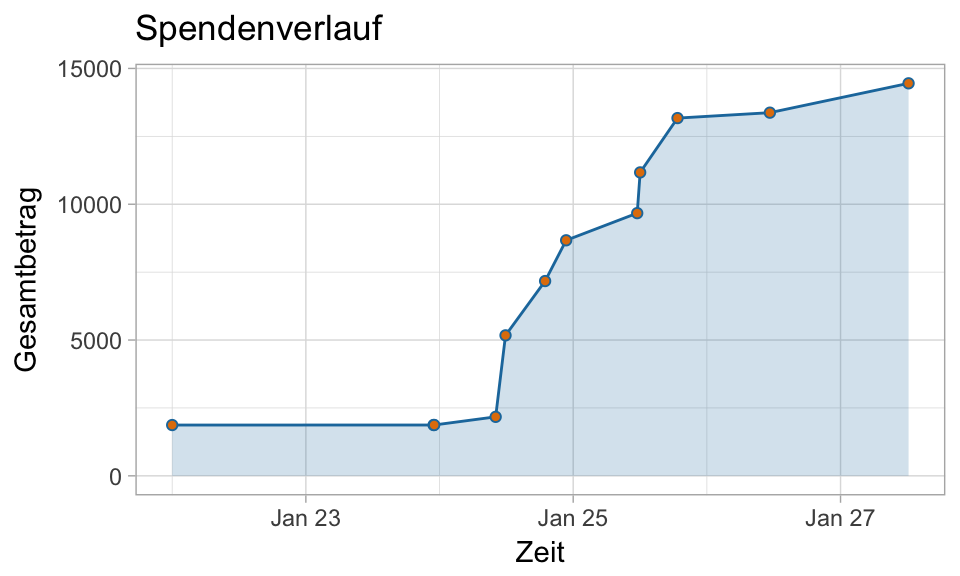
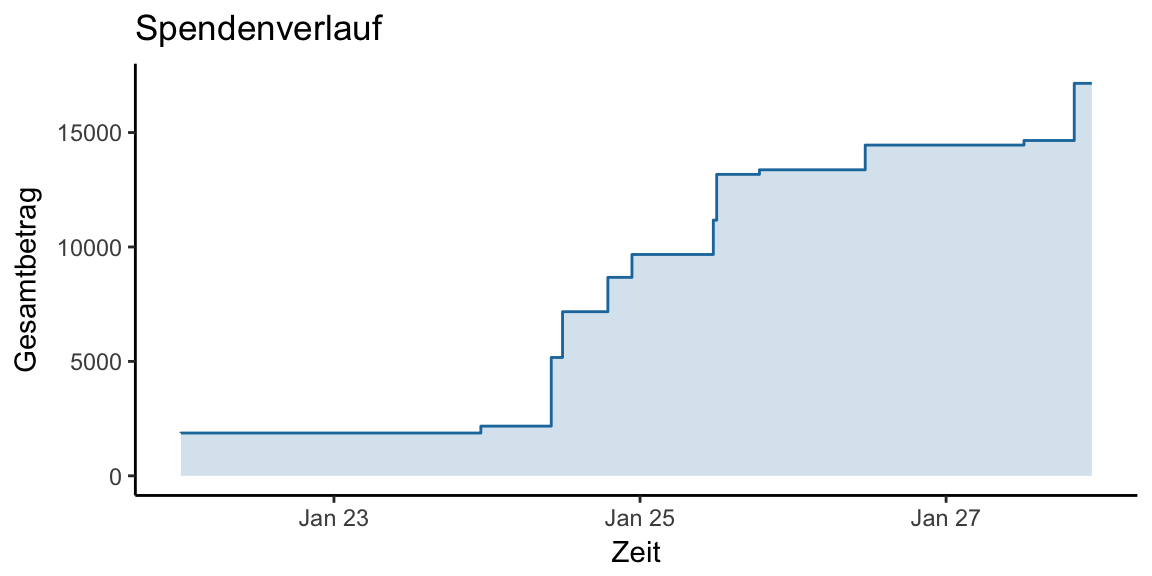
donation

Changed region(s): [[0.0, 0.0, 1.0, 1.0], [0.9375, 0.5625, 1.0, 0.5938]]

diff --git a/Results.html b/Results.html
@@ -217,7 +217,7 @@ $(document).ready(function () {
 
 
 <p align="right" class="text-primary">
-Stand: 27.01.2018 15:00
+Stand: 28.01.2018 00:02
 </p>
 <p> </p>
 <p> </p>
@@ -251,7 +251,7 @@ Spende
 Spende bei Zuschlag
 </td>
 <td style="text-align:right;">
-12280
+14978
 </td>
 </tr>
 <tr>
@@ -267,17 +267,17 @@ Für unser eigenes Zentrum
 Gesamt
 </td>
 <td style="text-align:right;font-weight: bold;color: white;background-color: #E17E08;">
-14452
+17150
 </td>
 </tr>
 </tbody>
 </table>
 <p> </p>
 <p> </p>
-<div class="card text-white bg-primary mb-3" style="max-width: 60rem;">
+<div class="card text-white bg-primary mb-3" style="max-width: 80rem;">
   <div class="card-body" align="center">
     &nbsp;
-    <p class="card-text" align="center"> <b>10</b> Leute haben bisher <b>14452 €</b> gespendet oder zugesagt!</p>
+    <p class="card-text" align="center"> <b>11</b> Leute haben bisher <b>17150 €</b> gespendet oder zugesagt!</p>
     &nbsp; 
   </div>
 </div>
@@ -286,7 +286,7 @@ Gesamt
 </div>
 <div id="spendenverlauf" class="section level2">
 <h2>Spendenverlauf</h2>
-<p><img src="Results_files/figure-html/unnamed-chunk-6-1.png" width="480" style="display: block; margin: auto;" /></p>
+<p><img src="Results_files/figure-html/unnamed-chunk-6-1.png" width="576" style="display: block; margin: auto;" /></p>
 </div>
 
 
